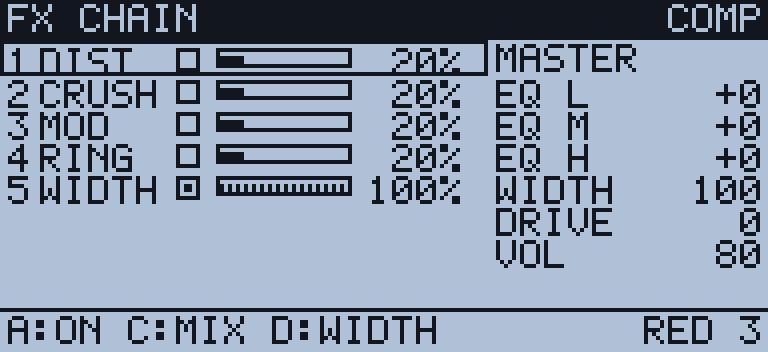
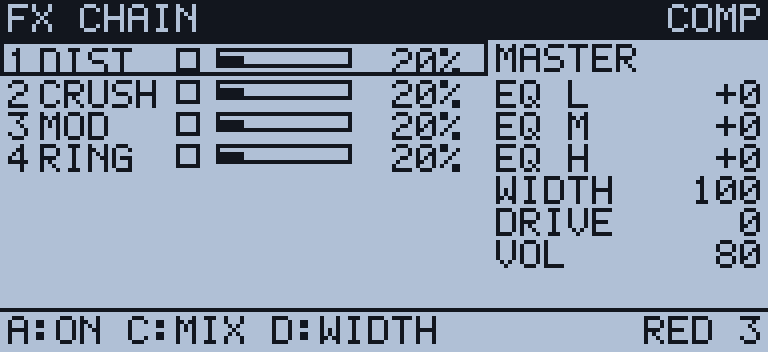
Remove the duplicate WIDTH insert, prove every master slot is audible
The master chain had a WIDTH slot that only rewrote the same stereo width the
master bus already exposes, so with both present one of them did nothing.

- default chain is now DIST, CRUSH, MOD, RING (four effects that really process audio)
- migrate() strips legacy WIDTH inserts and rebuilds an empty chain
- new tests render the factory pattern with each insert soloed and assert a real
  waveform difference, plus mono/wide stereo correlation for the width control
- README documents the chain accurately and notes the width decision

Changed region(s): [[0.0, 0.5, 0.5938, 0.5938]]

diff --git a/tests/storage-export.test.ts b/tests/storage-export.test.ts
@@ -8,6 +8,7 @@ import { exportMix } from '../src/export/render';
 import { Store } from '../src/state/store';
 import { rms, peak } from '../src/audio/dsp';
 import { buildFactorySamples } from '../src/audio/sample';
+import { AudioEngine } from '../src/audio/engine';
 
 beforeAll(() => {
   installCanvasStubs();
@@ -19,6 +20,61 @@ beforeAll(() => {
     addEventListener() {},
     removeEventListener() {},
   };
+});
+
+describe('master FX chain', () => {
+  const render = (enable: string | null) => {
+    const project = defaultProject();
+    for (const fx of project.master.chain) {
+      fx.on = fx.type === enable;
+      fx.mix = 0.9;
+    }
+    const engine = new AudioEngine(project, { sampleRate: 44100 });
+    for (const smp of buildFactorySamples(44100)) engine.bank.set(smp);
+    engine.setKit(project.kits[0]);
+    engine.play();
+    return engine.renderOffline(1.5);
+  };
+  const diff = (a: Float32Array, b: Float32Array) => {
+    let s = 0;
+    for (let i = 0; i < a.length; i++) s += Math.abs(a[i] - b[i]);
+    return s / a.length;
+  };
+
+  it('every insert slot actually processes audio', () => {
+    const dry = render(null);
+    for (const type of ['DIST', 'CRUSH', 'MOD', 'RING']) {
+      const wet = render(type);
+      expect(diff(dry.left, wet.left), type).toBeGreaterThan(0.01);
+    }
+  });
+
+  it('ships no duplicate WIDTH insert (that control lives on the master bus)', () => {
+    const project = defaultProject();
+    expect(project.master.chain.some((c) => c.type === 'WIDTH')).toBe(false);
+    expect(project.master.chain.length).toBeGreaterThanOrEqual(4);
+  });
+
+  it('mono width collapses the sides and wide width expands them', () => {
+    const corr = (width: number) => {
+      const project = defaultProject();
+      project.master.width = width;
+      const engine = new AudioEngine(project, { sampleRate: 44100 });
+      for (const smp of buildFactorySamples(44100)) engine.bank.set(smp);
+      engine.setKit(project.kits[0]);
+      engine.play();
+      const out = engine.renderOffline(1.5);
+      let sl = 0, sr = 0, slr = 0;
+      for (let i = 0; i < out.left.length; i++) {
+        sl += out.left[i] * out.left[i];
+        sr += out.right[i] * out.right[i];
+        slr += out.left[i] * out.right[i];
+      }
+      return slr / Math.sqrt(sl * sr);
+    };
+    expect(corr(0)).toBeGreaterThan(0.99);
+    expect(corr(1)).toBeLessThan(0.99);
+  });
 });
 
 describe('WAV encoding', () => {

diff --git a/src/state/storage.ts b/src/state/storage.ts
@@ -205,5 +205,18 @@ export function migrate(p: Project): Project {
   if (!p.chain) p.chain = [];
   if (p.chainLoop === undefined) p.chainLoop = true;
   if (!Array.isArray(p.samples)) p.samples = [];
+  // Older builds shipped a WIDTH insert that duplicated master.width and did nothing on
+  // its own; drop it so the chain only contains effects that actually process audio.
+  if (Array.isArray(p.master?.chain)) {
+    p.master.chain = p.master.chain.filter((c) => c.type !== 'WIDTH');
+    if (p.master.chain.length === 0) {
+      p.master.chain = [
+        { type: 'DIST', on: false, mix: 0.2, p1: 0.5, p2: 0.5, p3: 0.5 },
+        { type: 'CRUSH', on: false, mix: 0.2, p1: 0.5, p2: 0.5, p3: 0.5 },
+        { type: 'MOD', on: false, mix: 0.2, p1: 0.5, p2: 0.5, p3: 0.5 },
+        { type: 'RING', on: false, mix: 0.2, p1: 0.5, p2: 0.5, p3: 0.5 },
+      ];
+    }
+  }
   return p;
 }

diff --git a/src/state/presets.ts b/src/state/presets.ts
@@ -71,7 +71,6 @@ export function defaultMasterParams(): MasterParams {
       { type: 'CRUSH', on: false, mix: 0.2, p1: 0.5, p2: 0.5, p3: 0.5 },
       { type: 'MOD', on: false, mix: 0.2, p1: 0.5, p2: 0.5, p3: 0.5 },
       { type: 'RING', on: false, mix: 0.2, p1: 0.5, p2: 0.5, p3: 0.5 },
-      { type: 'WIDTH', on: true, mix: 1, p1: 0.5, p2: 0.5, p3: 0.5 },
     ],
   };
 }

diff --git a/README.md b/README.md
@@ -27,7 +27,7 @@ node scripts/boot-check.mjs   # boots the whole app headlessly and drives the pa
 | Engines | 4-op FM (8 algorithms), 8 digital synth models, sampler |
 | Tracks | 8, freely configurable, independent engine / filter / FX / sequence |
 | Sequencer | 64 steps, per-track length & speed, swing, p-locks, trig conditions, motion recording, live recording, song mode, pattern chain |
-| Effects | per-track distortion + chorus/flanger/phaser, ping-pong delay send, FDN reverb send, master insert chain (dist, bitcrush, mod, ringmod, width) + EQ + compressor |
+| Effects | per-track distortion + chorus/flanger/phaser, ping-pong delay send, FDN reverb send, 4-slot master insert chain (drive, bitcrush, mod, ringmod) + 3-band EQ + stereo width + compressor |
 | Display | 192×88 1-bit LCD with a hand-built 5×7 bitmap font, 14 screens |
 | Controls | VALUE encoder, 4 parameter encoders (A–D), 8 pads, 6 mode buttons, transport, 13 function keys, mute/solo, 2 trim encoders |
 | Export | WAV 16-bit and MP3 (LAME) — master mix, song, single track, or all 8 tracks |
@@ -176,6 +176,9 @@ and saves the same way.
 - **Polyphony** is 8 voices per track; voice stealing takes the quietest voice.
 - **Free-running LFOs** are updated once per audio block (256 frames ≈ 5.8 ms), which is
   inaudible at ≤40 Hz but is not per-sample.
+- The master **width** control is a single stereo-width parameter on the master bus; it is
+  deliberately *not* also a chain insert (an older build had both, which meant one of
+  them did nothing — the duplicate is removed and migrated away).
 - Songs play through *pattern* boundaries only (no mid-pattern jumps).
 - The patterns/kit/sample lists scroll with the VALUE encoder or by scrolling the overlay;
   there is no search field yet.
@@ -186,7 +189,7 @@ and saves the same way.
 | --- | --- |
 | `tests/audio.test.ts` | every FM/mono/sample preset is audible, notes are in tune, FM index adds sidebands, all 8 mono models differ, slice/reverse/choke behaviour, filter & pan & reverb & distortion affect the signal |
 | `tests/sequencer.test.ts` | sample-accurate grid, swing, per-track speed, track length, mute, p-locks reach the DSP and change audio, automation precedence, all trig conditions, song/chain advancement with repeat counts, metronome, arrangement editing, store actions |
-| `tests/storage-export.test.ts` | WAV header correctness + round-trip, 24/32-bit, transient detection, save/load/migrate, per-track export files, song export, determinism, all 8 tracks audible through the exporter |
+| `tests/storage-export.test.ts` | WAV header correctness + round-trip, 24/32-bit, transient detection, save/load/migrate, per-track export files, song export, determinism, all 8 tracks audible through the exporter, every master insert measurably processes audio, mono/wide width correlation |
 | `tests/worklet.test.ts` | loads the built worklet bundle, asserts silence before init, audio after, parameter messages, meter messages |
 | `tests/ui.test.ts` | the 5×7 font is complete, all 6 modes + every parameter page render visible content without filling the screen, out-of-bounds safety, choice-parameter round-tripping (filter type, LFO shape/destination) |
 
